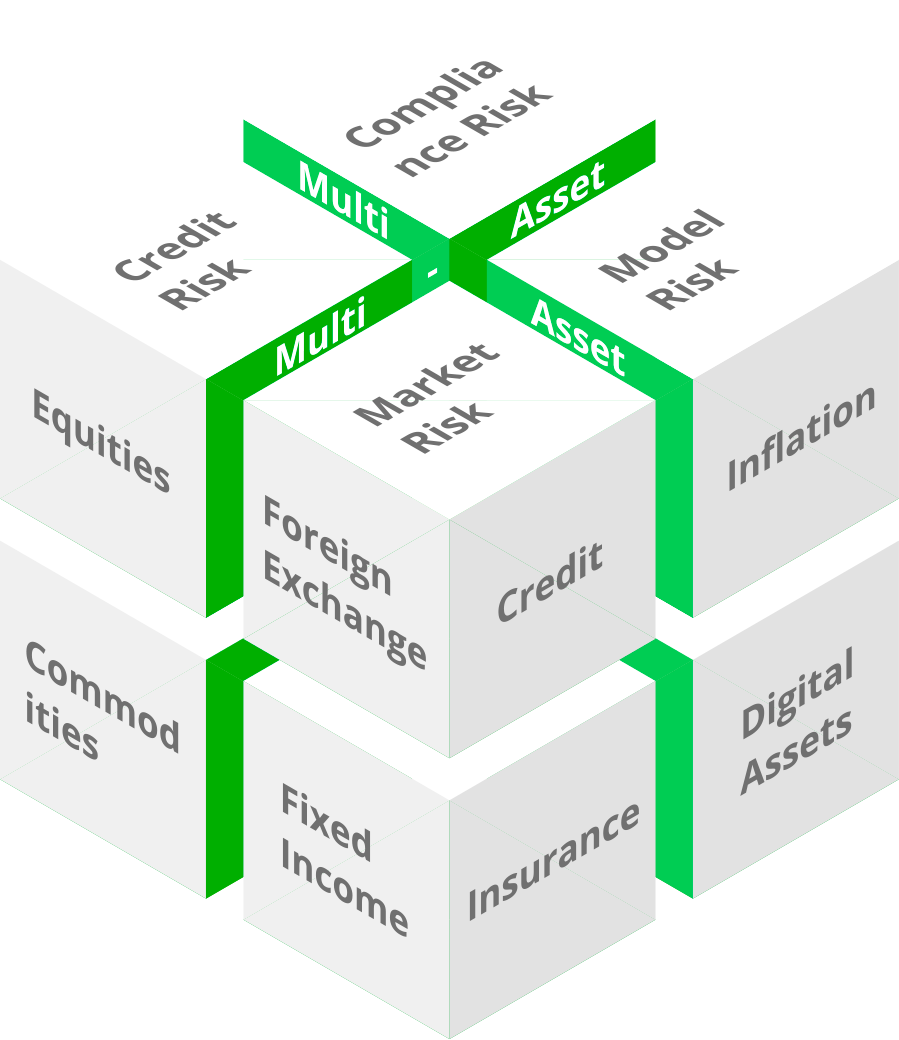
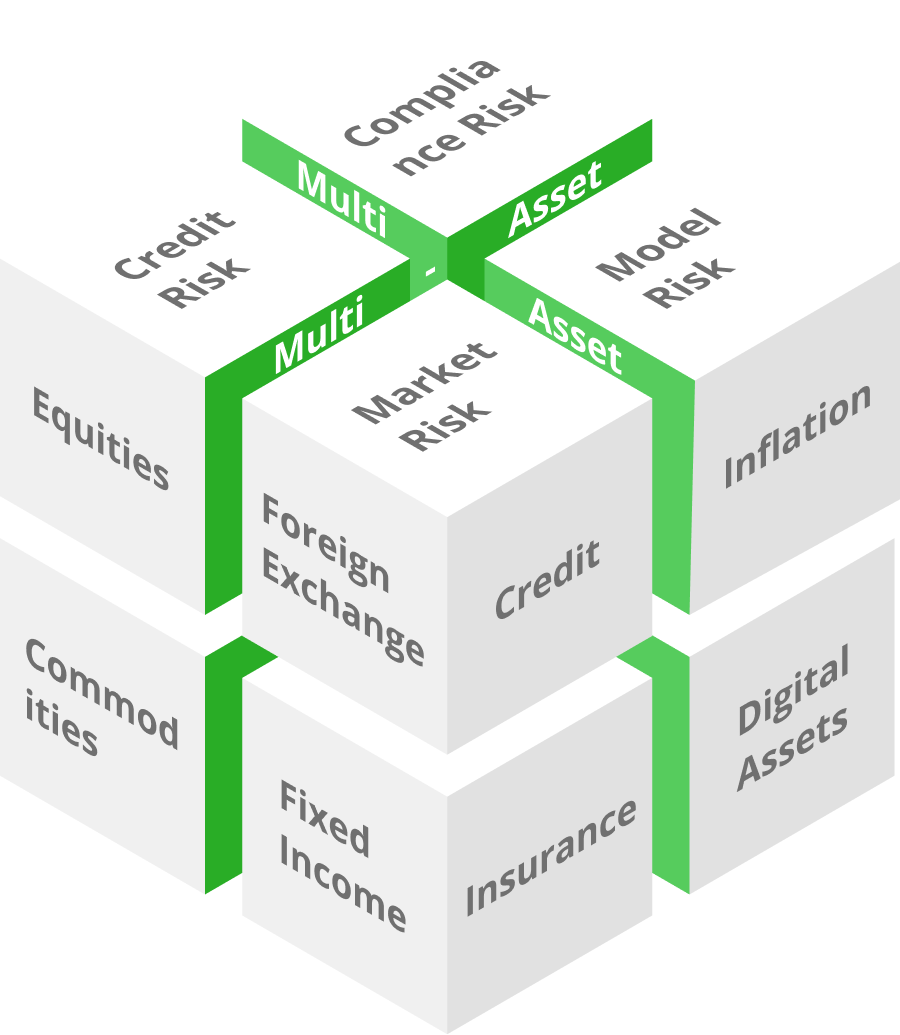
upd

diff --git a/index.html b/index.html
@@ -22,7 +22,7 @@
 			</nav>
 			<div class="header__buttons">
 				<a href="" class="link-btn link-btn_linkedin header__link-btn"></a>
-				<a href="" class="btn header__btn">Contact</a>
+				<a href="/contact/" class="btn header__btn">Contact</a>
 			</div>
 			<div class="header-burger">
 				<span class="header-burger__line"></span>
@@ -42,7 +42,7 @@
 						<p class="text intro__text">
 							We empower users with unparalleled flexibility in structuring, valuing, and managing financial instruments at scale.
 						</p>
-						<a href="" class="btn intro__btn">Explore</a>
+						<a href="/solutions/" class="btn intro__btn">Explore</a>
 					</div>
 					<div class="intro-image">
 

diff --git a/solutions/index.html b/solutions/index.html
@@ -208,7 +208,7 @@ integrating various asset classes with in a unified framework.</p>
 							<li class="grid-card__li">Utilize advanced calibration techniques to ensure consistent and accurate pricing across all multi-asset structures.</li>
 						</ul>
 					</div>
-					<div class="grid-card__image grid-card__image_right"><img src="/img/solution/9.svg" alt="solution" class="img grid-card__img"></div>
+					<div class="grid-card__image grid-card__image_right"><img src="/img/solution/9.png" alt="solution" class="img grid-card__img"></div>
 				</div>
 				<!-- GRID CARD -->
 				<div class="grid-card" id="risk-management">
